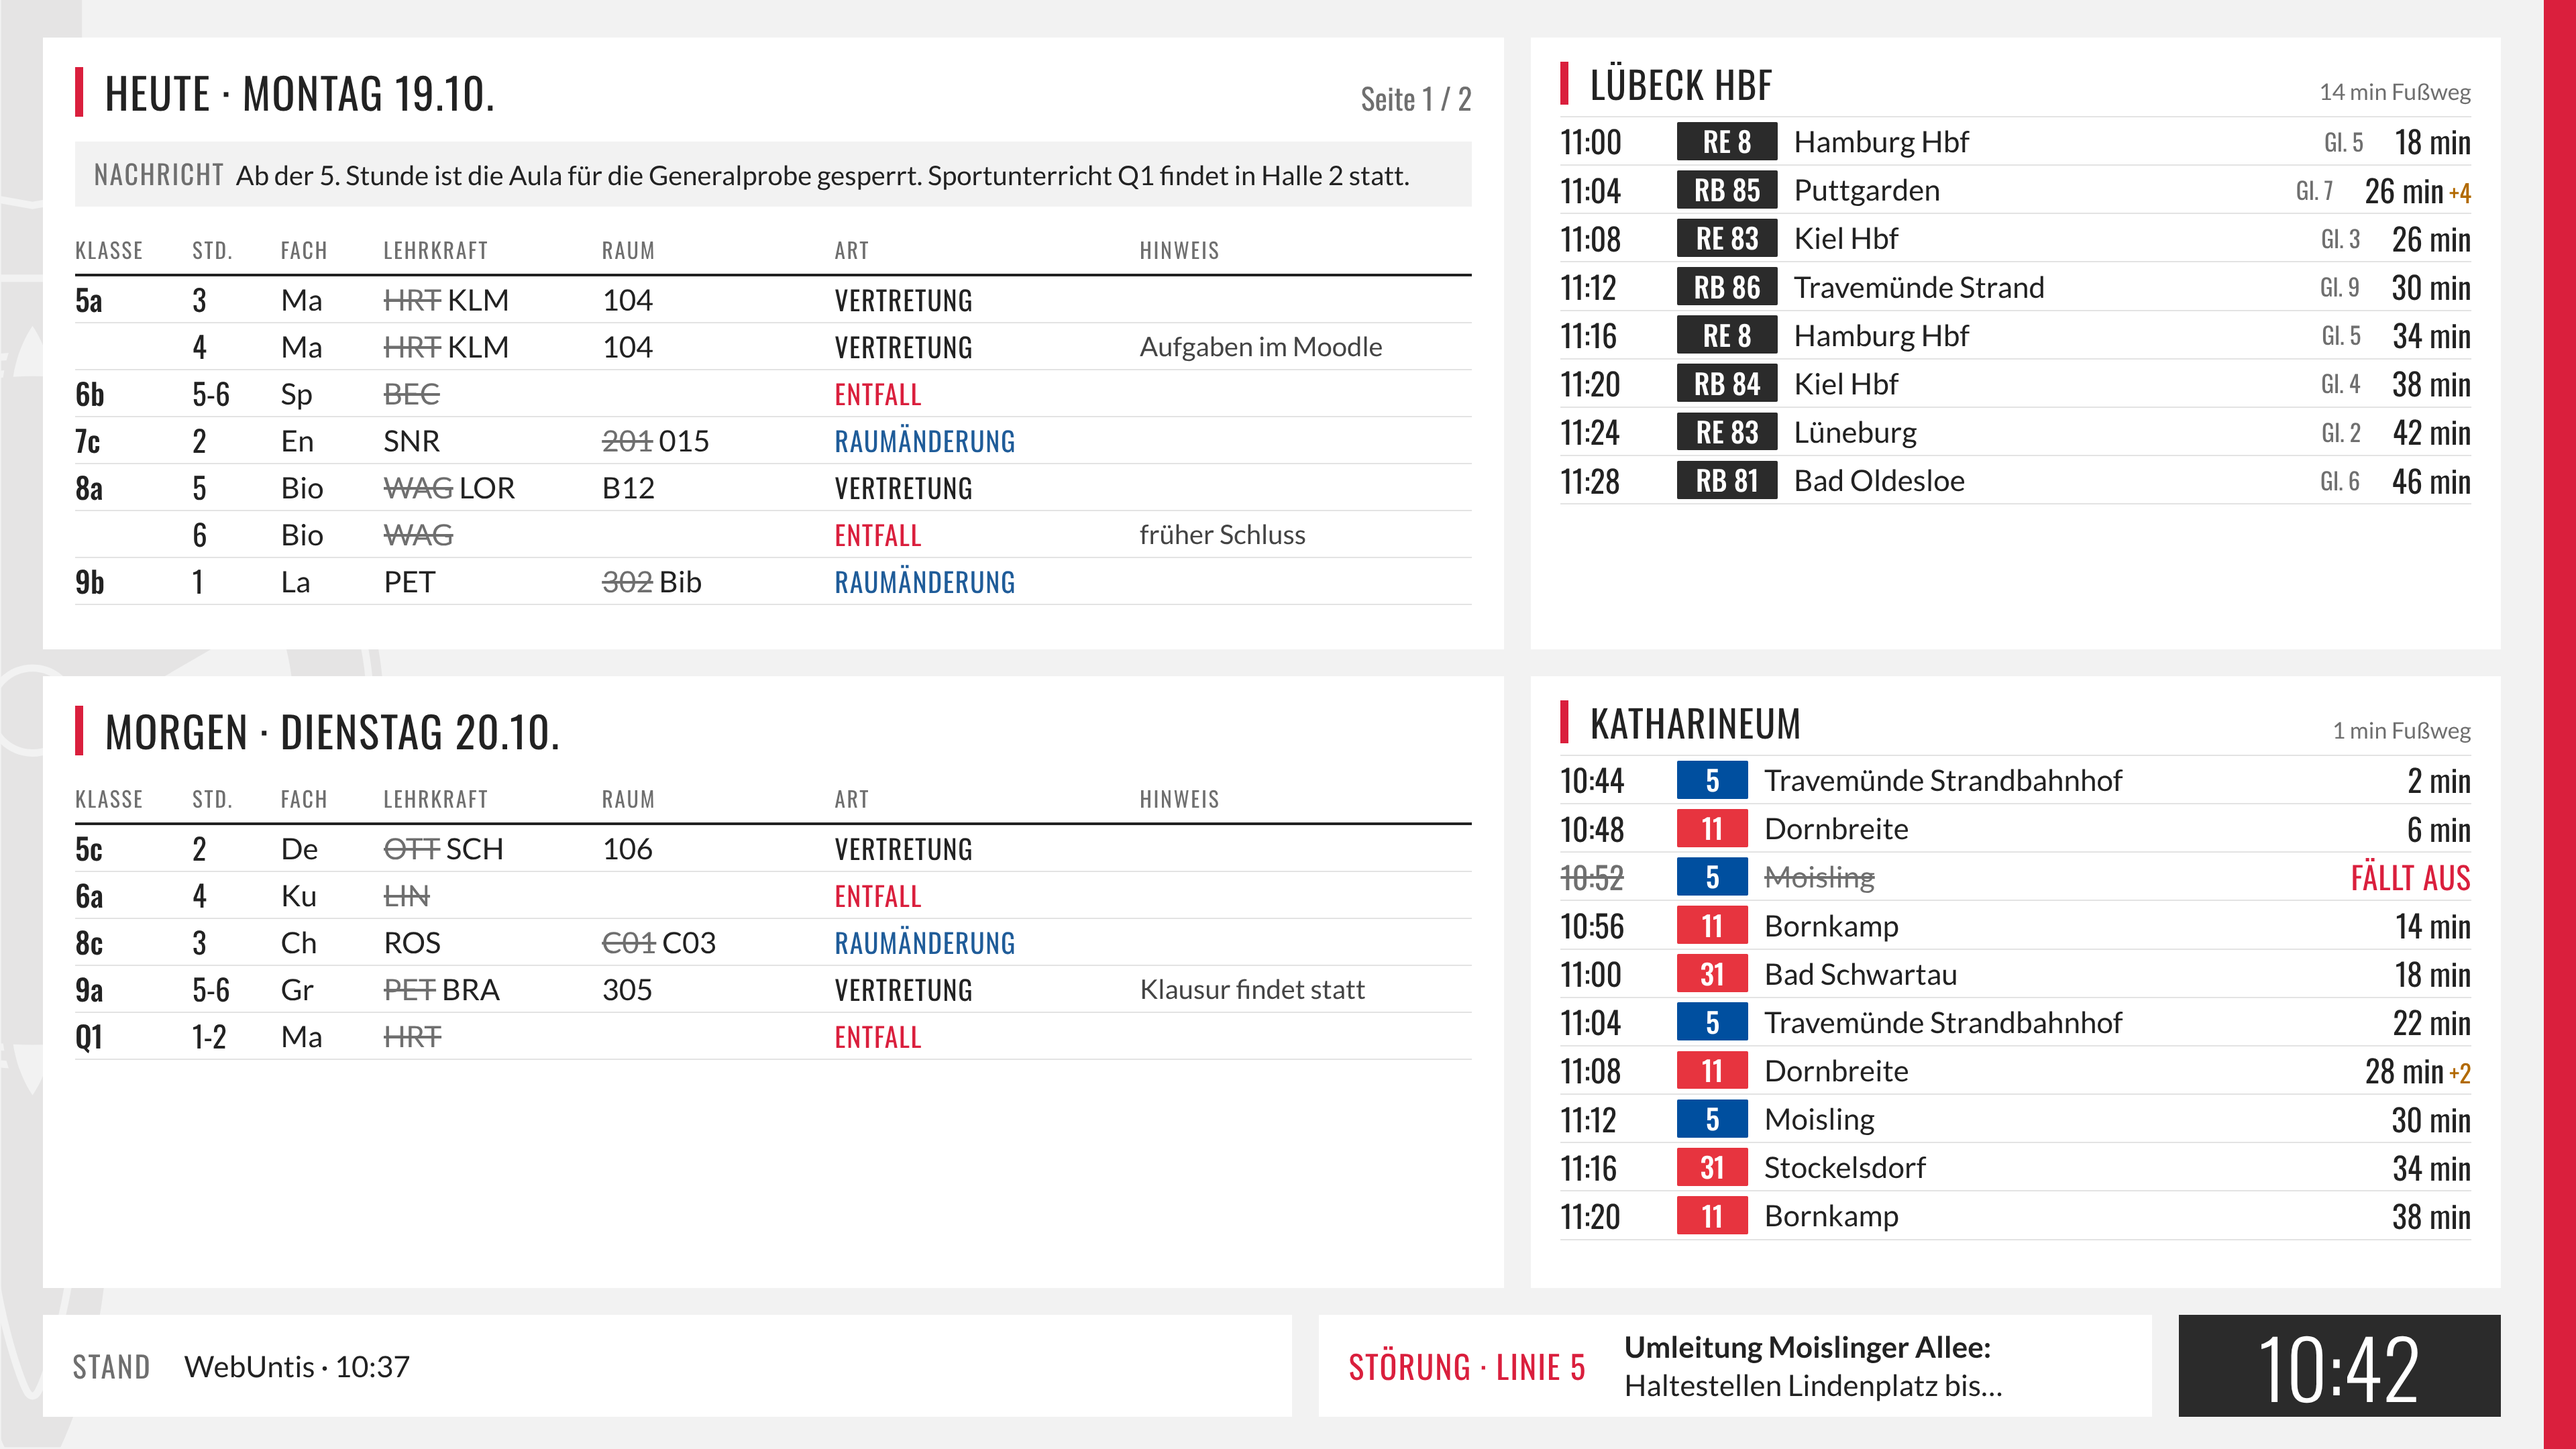
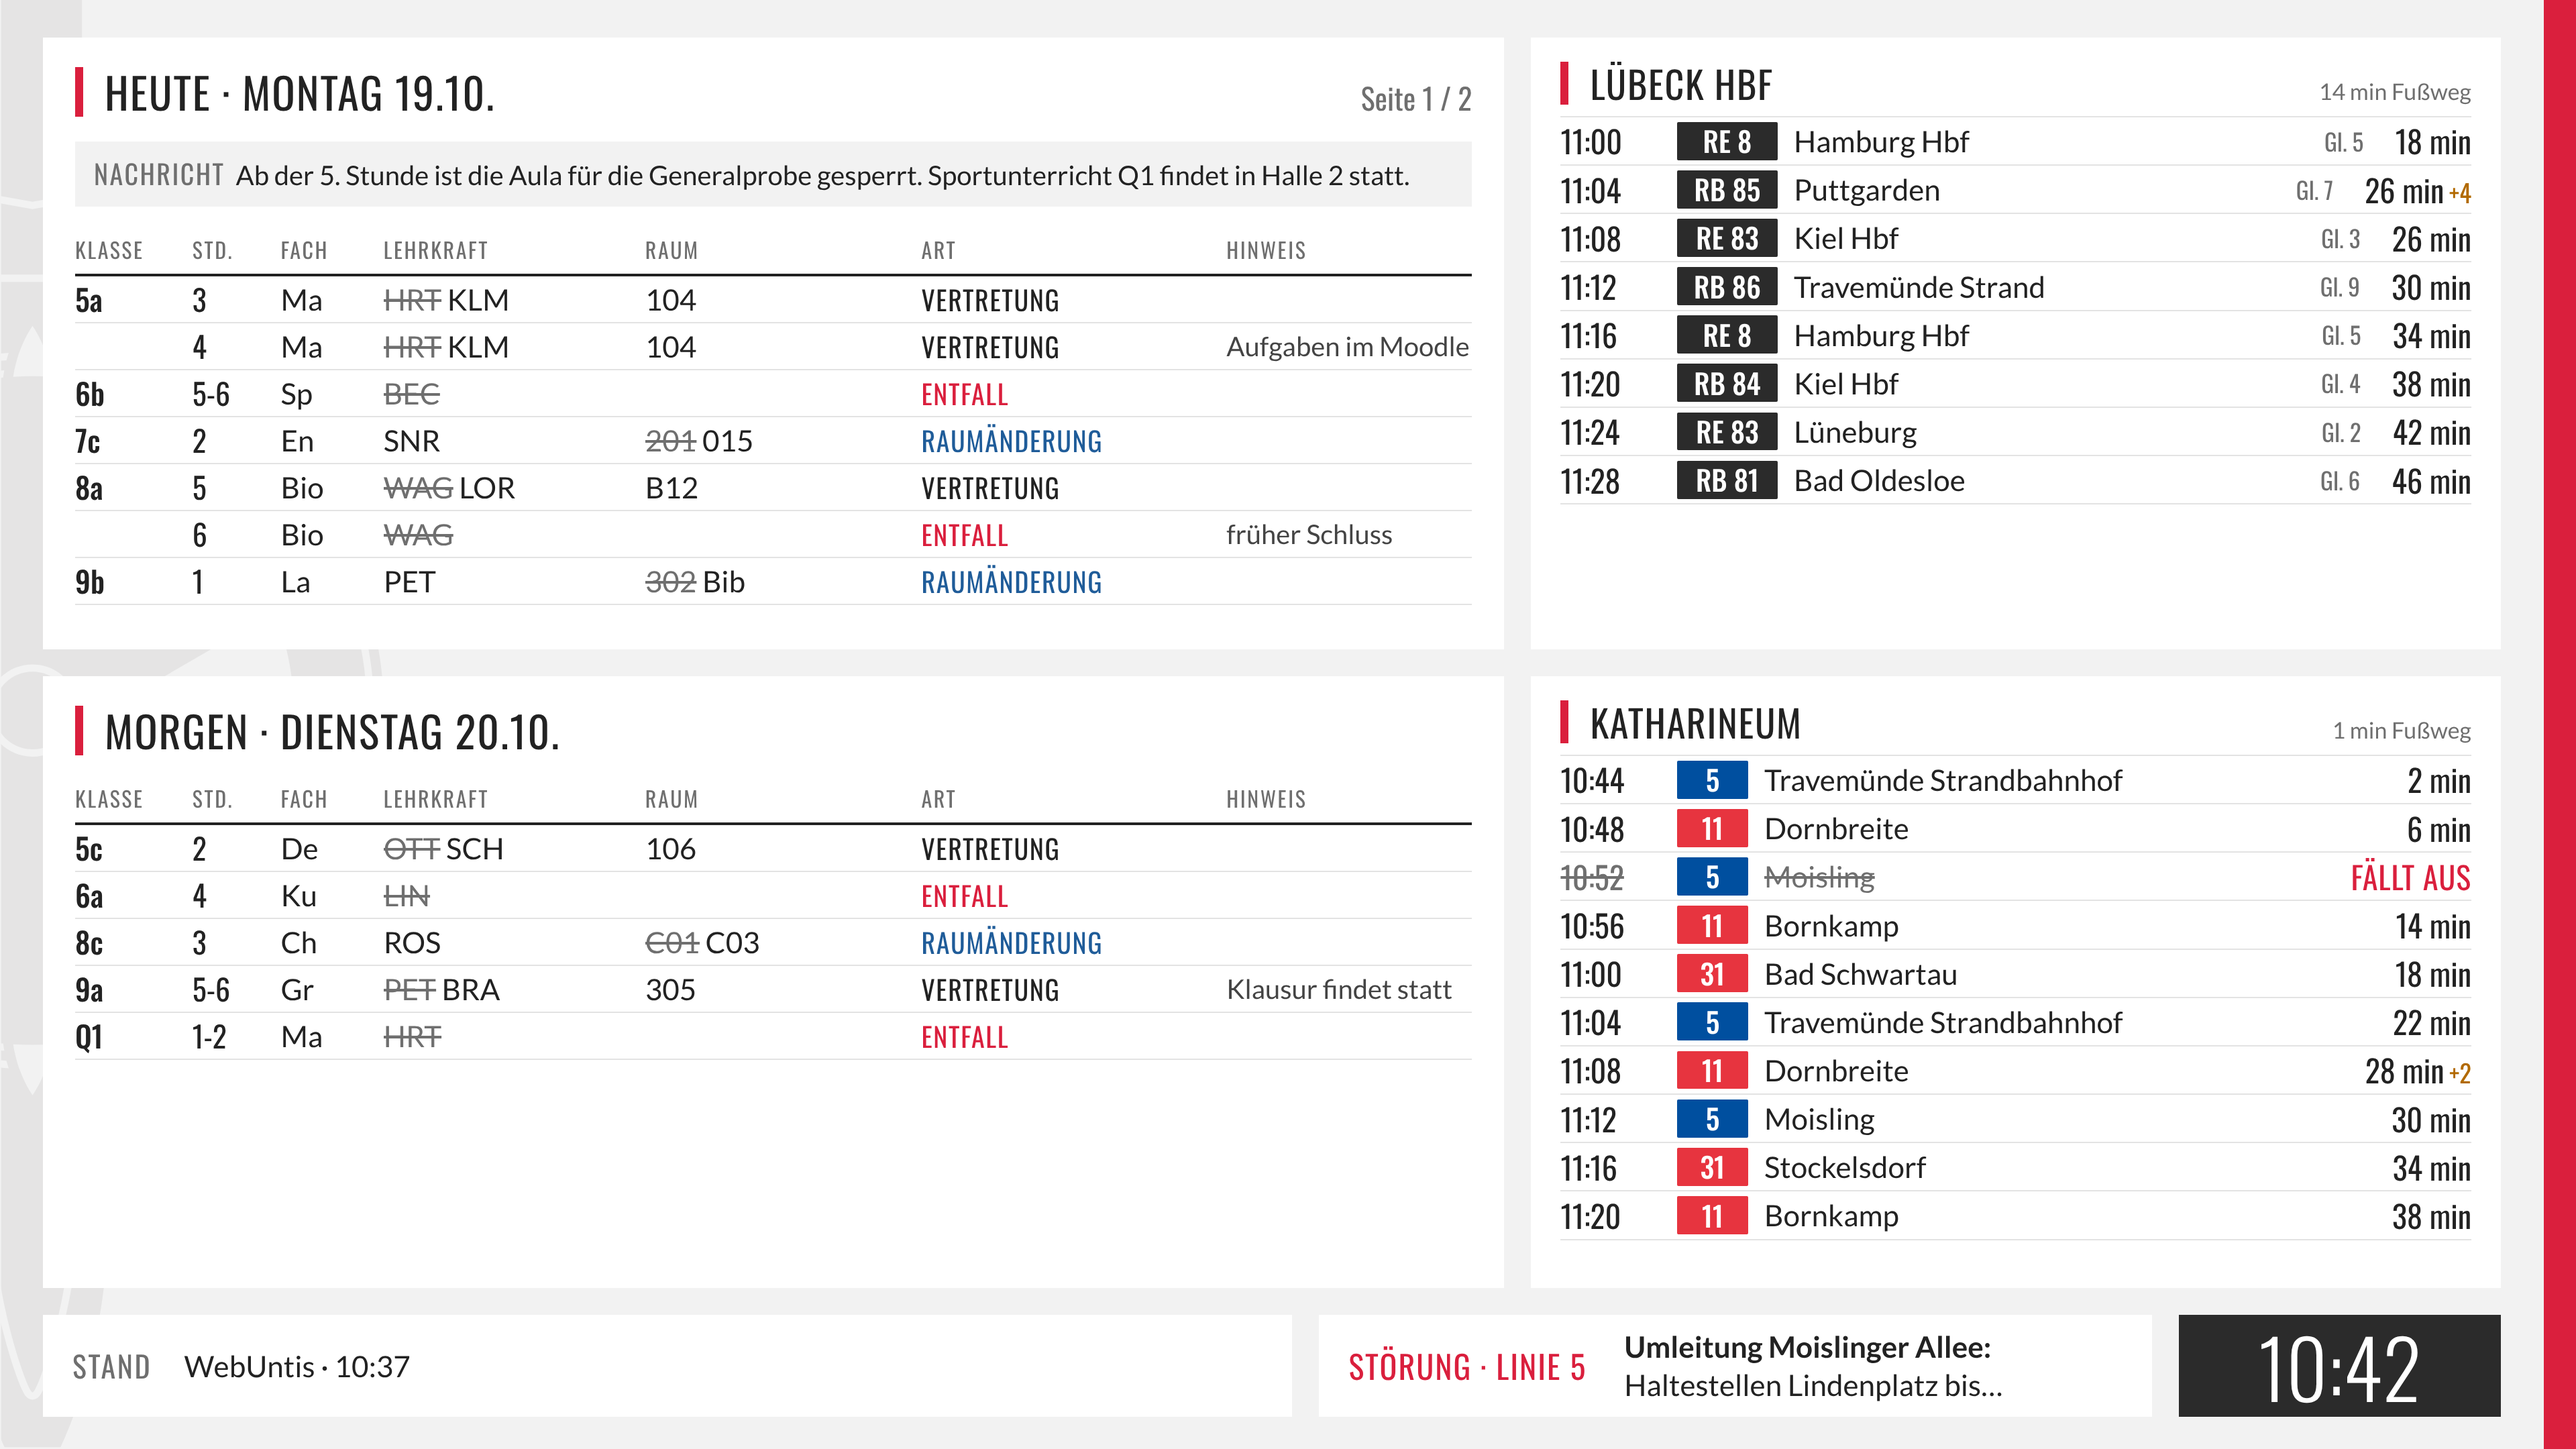
fix(display): useBoxSize beobachtet spät erscheinende Elemente, Vertretungsspalten und Info-Stapel
Claude-Session: https://claude.ai/code/session_01D7nDH9UeEyBKSeRzQw1WpF

diff --git a/frontend/src/components/display/lib/fit.js b/frontend/src/components/display/lib/fit.js
@@ -1,25 +1,33 @@
-import { useLayoutEffect, useState } from 'react'
+import { useLayoutEffect, useRef, useState } from 'react'
 
 const rootRemPx = () => parseFloat(getComputedStyle(document.documentElement).fontSize) || 16
 
-// Größe eines Elements in px plus rem-Basis. Gemessen beim Einhängen und danach nur bei
-// Größenänderung (ResizeObserver), nie im Sekundentakt.
+// Größe eines Elements in px plus rem-Basis. Gemessen, sobald das Element (neu) im Baum hängt, und danach
+// nur bei Größenänderung (ResizeObserver), nie im Sekundentakt. Das Element darf später erscheinen
+// (z.B. erst nach dem Laden der Daten statt eines Leerzustands): jeder Render prüft, ob ref.current
+// ein anderes Element ist, und hängt Messung und Beobachter dann um.
 export function useBoxSize(ref) {
   const [size, setSize] = useState({ width: 0, height: 0, remPx: 16 })
+  const watched = useRef({ el: null, observer: null })
   useLayoutEffect(() => {
     const el = ref.current
-    if (!el) return undefined
+    if (el === watched.current.el) return
+    watched.current.observer?.disconnect()
+    watched.current = { el, observer: null }
+    if (!el) return
     const measure = () => {
       const { width, height } = el.getBoundingClientRect()
       const remPx = rootRemPx()
       setSize((s) => (s.width === width && s.height === height && s.remPx === remPx ? s : { width, height, remPx }))
     }
     measure()
-    if (typeof ResizeObserver === 'undefined') return undefined
-    const observer = new ResizeObserver(measure)
-    observer.observe(el)
-    return () => observer.disconnect()
-  }, [ref])
+    if (typeof ResizeObserver !== 'undefined') {
+      const observer = new ResizeObserver(measure)
+      observer.observe(el)
+      watched.current.observer = observer
+    }
+  })
+  useLayoutEffect(() => () => watched.current.observer?.disconnect(), [])
   return size
 }
 

diff --git a/frontend/src/components/display/lib/fit.test.js b/frontend/src/components/display/lib/fit.test.js
@@ -1,5 +1,7 @@
-import { describe, it, expect } from 'vitest'
-import { fitRows, packByHeight } from './fit'
+import { act, createElement, useRef } from 'react'
+import { createRoot } from 'react-dom/client'
+import { afterEach, describe, it, expect, vi } from 'vitest'
+import { fitRows, packByHeight, useBoxSize } from './fit'
 
 describe('fitRows', () => {
   const base = { remPx: 16, minRem: 0.95, prefRem: 1.375, lineFactor: 1.6 }
@@ -30,5 +32,28 @@ describe('packByHeight', () => {
   it('setzt zu hohe Einträge allein auf eine Seite', () => {
     expect(packByHeight([300, 20], 100)).toEqual([[0], [1]])
     expect(packByHeight([], 100)).toEqual([])
+  })
+})
+
+globalThis.IS_REACT_ACT_ENVIRONMENT = true
+
+describe('useBoxSize', () => {
+  afterEach(() => vi.restoreAllMocks())
+
+  it('misst ein Element, das erst nach einem Leerzustand erscheint', () => {
+    vi.spyOn(Element.prototype, 'getBoundingClientRect').mockReturnValue({ width: 640, height: 360 })
+    let seen = null
+    function Probe({ ready }) {
+      const ref = useRef(null)
+      seen = useBoxSize(ref)
+      return ready ? createElement('div', { ref }) : createElement('p', null, 'Keine Daten')
+    }
+    const root = createRoot(document.createElement('div'))
+    act(() => root.render(createElement(Probe, { ready: false })))
+    expect(seen.width).toBe(0)
+    act(() => root.render(createElement(Probe, { ready: true })))
+    expect(seen.width).toBe(640)
+    expect(seen.height).toBe(360)
+    act(() => root.unmount())
   })
 })

diff --git a/frontend/src/components/display/views/InfoView.jsx b/frontend/src/components/display/views/InfoView.jsx
@@ -26,7 +26,7 @@ export default function InfoView({ view }) {
     <div
       ref={ref}
       className={`relative grid h-full gap-x-[5rem] pt-[3.75rem] ${stacked
-        ? 'grid-cols-[minmax(0,1fr)] grid-rows-[minmax(0,1fr)_minmax(0,1fr)] gap-y-[2.5rem]'
+        ? 'grid-cols-[minmax(0,1fr)] grid-rows-[minmax(0,auto)_minmax(0,auto)] content-start gap-y-[2.5rem]'
         : 'grid-cols-[minmax(0,1fr)_minmax(0,0.77fr)]'}`}
     >
       <div className="flex min-h-0 flex-col">

diff --git a/frontend/src/components/display/views/SubstitutionsView.jsx b/frontend/src/components/display/views/SubstitutionsView.jsx
@@ -9,7 +9,7 @@ import { Heading, PageCount } from './parts'
 
 const LIVE_SOURCES = ['substitutions', 'timetable']
 const ROW_REM = 2.1875
-const COLUMNS = '7fr 5fr 6fr 14fr 15fr 20fr 23fr'
+const COLUMNS = '7fr 5fr 6fr 17fr 18fr 20fr 17fr'
 const KIND = {
   substitution: { label: 'Vertretung', tone: '' },
   cancelled: { label: 'Entfall', tone: 'text-(--d-red)' },

diff --git a/docs/superpowers/screenshots/2026-10-19-monitor/README.md b/docs/superpowers/screenshots/2026-10-19-monitor/README.md
@@ -34,13 +34,13 @@ Namensschema: `display-<testdatei>[-<stil>][-portrait].png`. Ohne Stilangabe gil
 | `display-media-landscape-dark.png` | Medien Querformat, Stil dark |
 | `display-media-landscape-dense.png` | Medien Querformat, Stil dense |
 | `display-media-landscape.png` | Medien Querformat |
-| `display-media-portrait-ci-portrait.png` | Medien Hochformat, Stil ci, Hochformat |
-| `display-media-portrait-ci.png` | Medien Hochformat, Stil ci |
-| `display-media-portrait-dark-portrait.png` | Medien Hochformat, Stil dark, Hochformat |
-| `display-media-portrait-dark.png` | Medien Hochformat, Stil dark |
-| `display-media-portrait-dense-portrait.png` | Medien Hochformat, Stil dense, Hochformat |
-| `display-media-portrait-dense.png` | Medien Hochformat, Stil dense |
-| `display-media-portrait.png` | media, Hochformat |
+| `display-media-portrait-ci-portrait.png` | Medien, Hochformat-Seiten auf Hochformat-Bildschirm, Stil ci |
+| `display-media-portrait-ci.png` | Medien, Hochformat-Seiten auf Querformat-Bildschirm, Stil ci |
+| `display-media-portrait-dark-portrait.png` | Medien, Hochformat-Seiten auf Hochformat-Bildschirm, Stil dark |
+| `display-media-portrait-dark.png` | Medien, Hochformat-Seiten auf Querformat-Bildschirm, Stil dark |
+| `display-media-portrait-dense-portrait.png` | Medien, Hochformat-Seiten auf Hochformat-Bildschirm, Stil dense |
+| `display-media-portrait-dense.png` | Medien, Hochformat-Seiten auf Querformat-Bildschirm, Stil dense |
+| `display-media-portrait.png` | Medien, Hochformat-Seiten auf Querformat-Bildschirm |
 | `display-mode-emergency-ci.png` | Sondermodus Notfall, Stil ci |
 | `display-mode-emergency-dark.png` | Sondermodus Notfall, Stil dark |
 | `display-mode-emergency-dense.png` | Sondermodus Notfall, Stil dense |
